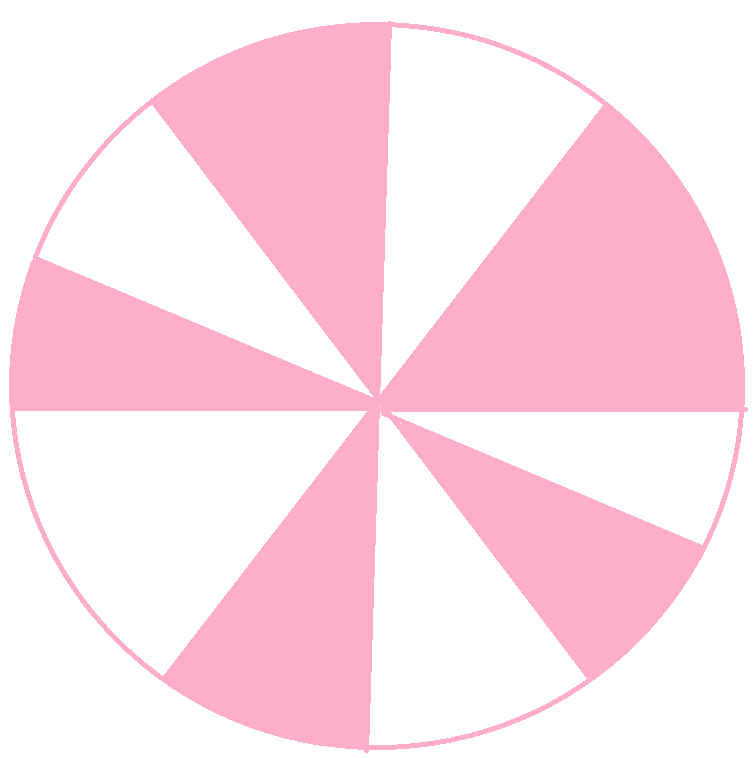
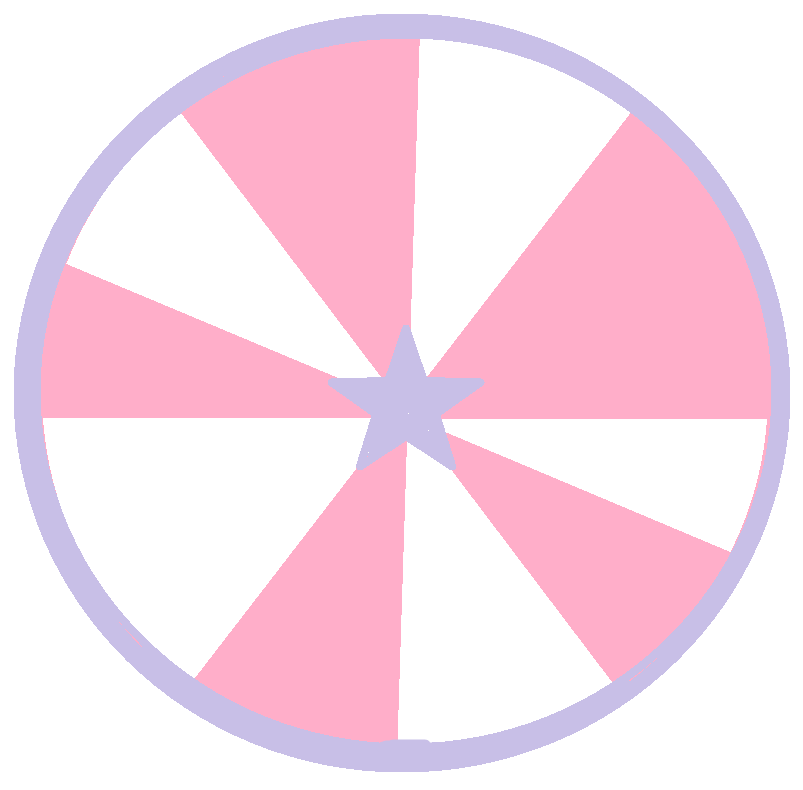
新增可爱箭矢 箭矢可以动

diff --git a/assets/code/player.ts b/assets/code/player.ts
@@ -1,9 +1,17 @@
-import { _decorator, Component, Node } from 'cc';
+import { _decorator, Component, Input, input, instantiate, Node, Prefab, tween, Vec3 } from 'cc';
 const { ccclass, property } = _decorator;
 
 @ccclass('player')
 export class player extends Component {
 
+    // 箭矢预制体绑定
+    @property(Prefab)
+    Arrow_Prefab: Prefab = null
+    // 箭矢节点的父节点
+    @property(Node)
+    Arrow_Parent: Node = null
+    // 箭矢节点 实例化的时候赋值
+    Arrow_Node: Node = null
 
     // 让箭靶节点旋转：先获取节点
     @property(Node)
@@ -12,8 +20,23 @@ export class player extends Component {
 
     @property
     Target_Speed = 5 //箭靶旋转速度
-    start() {
+    onLoad() {
+        input.on(Input.EventType.TOUCH_START, this.Touch_Start, this)
+    }
 
+    onDestroy() {
+        input.off(Input.EventType.TOUCH_START, this.Touch_Start, this)
+    }
+
+    Touch_Start(){
+        // 每次触摸屏幕 都会生成一个新的箭矢并且平移到指定坐标。
+        this.Arrow_Node = instantiate(this.Arrow_Prefab) // instantiate(预制体) 预制体实例化
+        this.Arrow_Node.setParent(this.Arrow_Parent) //设置预制体的父节点
+        tween(this.Arrow_Node).to(0.5, {position: new Vec3(-3, 2.5, 0)}).start() //箭矢平滑移动动画
+    }
+
+    start() {
+        
     }
 
     update(deltaTime: number) {
